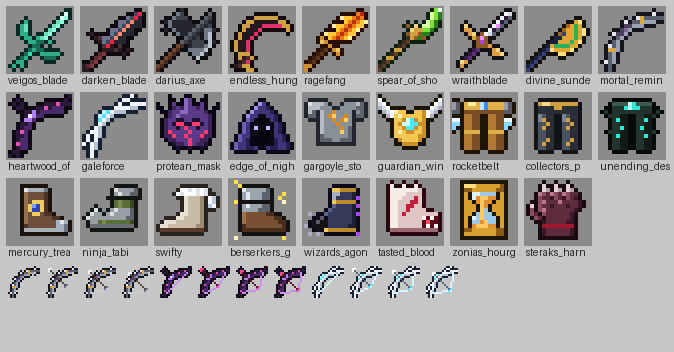
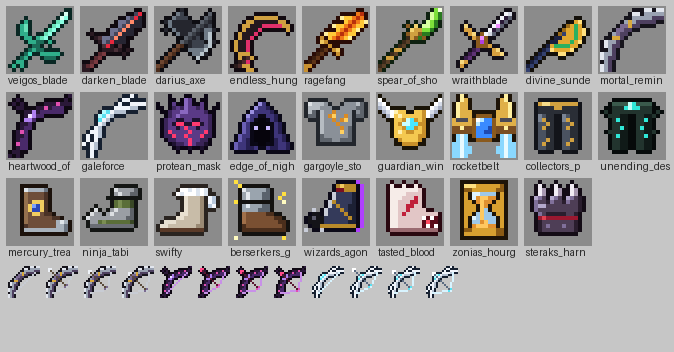
art: redraw the four weakest combat sprites
Rocketbelt is now the belt itself (twin rockets, crystal buckle, glowing
exhaust); Sterak's Gage a steel-lilac gauntlet with long claws; Mortal
Reminder gets solid saw teeth; Spellslinger's Shoes a gold cuff, red lining,
spiked orb and violet aura.

diff --git a/tools/generate-combat-art.py b/tools/generate-combat-art.py
@@ -332,25 +332,26 @@ sprite('guardian_wing', {
 # --- Leggings -------------------------------------------------------------------------------
 sprite('rocketbelt', {
     'K': '#1e1408', 'b': '#7a4e22', 'B': '#b07a34', 'y': '#e0b048', 'Y': '#fff0a0',
-    'c': '#3a8aff', 'C': '#b8e8ff', 't': '#5a5a66', 'T': '#9a9aa8', 'f': '#8ad8ff', 'F': '#e8faff',
+    'c': '#3a8aff', 'C': '#b8e8ff', 'W': '#ffffff', 'B': '#1e4ab0', 'o': '#8a5a1e', 't': '#4a4a56',
+    'f': '#8ad8ff', 'F': '#e8faff',
 }, [
-    "................",
-    "KK.KKKKKKKKKKKK.",
-    "TtKyYYyCcyyyyTtK",
-    "TtKyyyyCcyyyyTtK",
-    "ttKbbbbbbbbbbttK",
-    "KKKBBbbKKBBbbKK.",
-    "FFKBBbbKKBBbbFFK",
-    "ffKBBbbKKBBbbffK",
-    "fKKBBbbKKBBbbfK.",
-    "K.KyyyyKKyyyyK..",
-    "..KBBbbKKBBbbK..",
-    "..KBBbbKKBBbbK..",
-    "..KBBbbKKBBbbK..",
-    "..KBBbbKKBBbbK..",
-    "...KKKK..KKKK...",
-    "................",
-], glow='cCfF')
+    ".KYK........KYK.",
+    ".KYyK......KyYK.",
+    "KYyyK......KyyYK",
+    "KYyyK......KyyYK",
+    "KYyyyKKKKKKyyyYK",
+    "KYyyyKooooKyyyYK",
+    "ytttyoWCccoyttty",
+    "yyyyyoCcccoyyyyy",
+    "bbYbbocccBobbYbb",
+    "bbbbboccBBobbbbb",
+    "KfFfKoccccoKfFfK",
+    "KfFfKKooooKKfFfK",
+    "ffFf........fFff",
+    "ffFff......ffFff",
+    "ffFff......ffFff",
+    "ffFf........fFff",
+], glow='cCWBfF')
 
 sprite('collectors_pants', {
     'K': '#12141a', 's': '#2a2e36', 'm': '#4a5260', 'l': '#7a8494', 'y': '#d0a040', 'Y': '#f6dc8a',
@@ -485,22 +486,22 @@ sprite('berserkers_greaves', {
 
 sprite('wizards_agony', {
     'K': '#0c0a18', 'n': '#1c2034', 'N': '#343a5a', 'l': '#5a6488', 'y': '#b88a2a', 'Y': '#f0c860',
-    's': '#a8aec0', 'o': '#141418', 'O': '#5a5a6a', 'p': '#b040ff', 'P': '#e0a0ff',
+    's': '#c8ccd8', 'o': '#141418', 'O': '#5a5a6a', 'p': '#b040ff', 'P': '#e0a0ff', 'r': '#7a1020',
 }, [
+    "........KKKKKp..",
+    ".......KyYyyyKp.",
+    ".......KrryyyKp.",
+    "......KsNNNNnKp.",
+    "......KsNNNNnKp.",
+    ".....KsyNNNNnKp.",
+    ".....KsNyNNnnKp.",
+    "..s.KsNNNyNnnKp.",
+    ".KooKsNNNNynnKp.",
+    "KoOooNNNNNNynKp.",
+    "KooooNNNNNNnnKp.",
+    ".KooyyyyyyyyyKp.",
+    "s.KKsKKKKKKKKp..",
     "................",
-    ".......KKKKKK...",
-    "......KYYyyyyK..",
-    "......KssNNNnK..",
-    "......KsNNNNnp..",
-    "......KYyyyyyK..",
-    "......KlNNNNnp..",
-    ".....KlNNNNNnK..",
-    ".s.KKlNNNNNNnp..",
-    "..KoOKNNNNNNnK..",
-    ".KoOooNNNNNNnK..",
-    "sKooooNNNNNnnK..",
-    "..KoKYyyyyyyyK..",
-    ".s.s.KKKKKKKKp..",
     "................",
     "................",
 ], glow='pP')
@@ -551,24 +552,24 @@ sprite('zonias_hourglass', {
 ], glow='sS')
 
 sprite('steraks_harness', {
-    'K': '#1a0a12', 'd': '#3a1626', 'm': '#5e2a3e', 'l': '#8a4a62', 'L': '#b87890', 'c': '#e8d0d8',
-    'C': '#b8a0a8', 'r': '#a01830',
+    'K': '#140c16', 'd': '#2a1e2e', 'm': '#4e3e56', 'l': '#80709a', 'L': '#b4a8cc', 'c': '#f2ecf4',
+    'C': '#a898b0', 'r': '#9a1830', 'R': '#e04050',
 }, [
-    "....K..K..K.....",
-    "...KcKKcKKcK....",
-    "...KcCKcCKcCK...",
-    "..KLlmLlmLlmmK..",
-    "..KlmmdlmdlmdK..",
-    ".KKlLmmmLmmmmdK.",
-    "KcKlmmdmmmdmmdK.",
-    "KlKlLmmmmmmmdK..",
-    "KlmKlmmmmmmdK...",
-    ".KlmKmmmmmmdK...",
-    "..KKdmmmmmddK...",
-    "...KrrrrrrrrK...",
-    "...KdmmmmmmdK...",
-    "...KdmmmmmmdK...",
+    "...K...K...K....",
+    "..KcK.KcK.KcK...",
+    "..KcCKKcCKKcCK..",
+    "..KcCKKcCKKcCK..",
+    ".KLlmKLlmKLlmdK.",
+    ".KlmmdlmmdlmmdK.",
+    ".KlLLmmmmmmmmdK.",
+    ".KlmmmmmmmmmmdK.",
+    "..KlmdddddmmdK..",
+    "..KrRrrrrrrrrK..",
+    "..KdmmmmmmmmdK..",
+    "..KdmlmmmlmmdK..",
+    "..KdmmmmmmmmdK..",
     "...KKKKKKKKKK...",
+    "................",
     "................",
 ])
 
@@ -585,22 +586,22 @@ bow('mortal_reminder', {
     'K': '#16141c', 's': '#5a6070', 'm': '#9aa2b2', 'l': '#e2e6ee', 'y': '#d8a83c',
     'p': '#4e4060', 'P': '#7a6a90',
 }, [
-    ".............K..",
-    ".........KKKKlKK",
-    "......K.Klysssss",
-    ".....KlKssymmmKK",
-    ".....KppmmmKKK..",
-    "...KKpPmKKK.....",
-    "..KlppmK........",
-    "...KsmK.........",
-    "..KsmK..........",
-    ".KlsmK..........",
-    ".KyymK..........",
-    ".KsmK...........",
-    ".KsmK...........",
-    "KlsmK...........",
-    ".KsK............",
-    ".KsK............",
+    "........KKKllKll",
+    ".......KllKmmmmm",
+    "......KKmmmmmppp",
+    ".....KmympppppKK",
+    "....KPPyppKKKK..",
+    "...KPPppKK......",
+    "..KmPppK........",
+    ".KKyypK.........",
+    "KlmmpK..........",
+    "KlmppK..........",
+    "KKmpK...........",
+    "lmmpK...........",
+    "lmppK...........",
+    "KmpK............",
+    "lmpK............",
+    "lmpK............",
 ], string='#c8ccd4', arrow=('#5a4a3a', '#eef2f8', '#7a6a90'))
 
 bow('heartwood_of_pallas', {

diff --git a/docs/technical/combat-art.md b/docs/technical/combat-art.md
@@ -54,7 +54,7 @@ Riot's images. The reference screenshots live in `design/reference/league/`, whi
 | `edge_of_night` | Edge of Night | an indigo hood, a dark face, two faint glowing eyes |
 | `gargoyle_stoneplate` | Gargoyle Stoneplate | a pale stone cuirass with broad pauldrons, glowing gold cracks |
 | `guardian_wing` | Guardian Angel | a gold breastplate, white wings at the shoulders, a glowing cyan crystal |
-| `rocketbelt` | Hextech Rocketbelt | brass belt and blue crystal, thrusters at the hips with blue exhaust |
+| `rocketbelt` | Hextech Rocketbelt | the belt itself: two gold rocket cones, a blue crystal buckle, glowing blue exhaust jets |
 | `collectors_pants` | The Collector | dark gunmetal with gold filigree (League's icon is a gun) |
 | `unending_despair` | Unending Despair | green-black spiked carapace with glowing cyan veins and core |
 | `mercury_treads` | Mercury's Treads | brown leather, steel cuff, toe cap and sole, a gold-set sapphire |
@@ -64,7 +64,7 @@ Riot's images. The reference screenshots live in `design/reference/league/`, whi
 | `wizards_agony` | Spellslinger's Shoes | a navy boot with gold bands and a silver plate, a spiked orb at the toe, a violet aura |
 | `tasted_blood` | Gluttonous Greaves | a bone-white boot with a jagged crest, a crimson streak, a fanged maw at the toe |
 | `zonias_hourglass` | Zhonya's Hourglass | a gold frame round an hourglass, glowing amber sand mid-fall |
-| `steraks_harness` | Sterak's Gage | a clawed crimson-purple gauntlet |
+| `steraks_harness` | Sterak's Gage | a steel gauntlet with lilac sheen, long pale claws, a crimson band at the wrist |
 
 `test_magic_blade` is a `/give`-only test item and keeps the vanilla look.
 
@@ -92,8 +92,11 @@ Riot's images. The reference screenshots live in `design/reference/league/`, whi
 
 ## Known rough edges
 
-- **First pass.** Readable at hotbar size and recognisably each item, but several deserve another
-  round: Sterak's Gage, the Rocketbelt's thrusters, Mortal Reminder's spikes, Spellslinger's orb.
+- **Second pass on the weakest four** (2026-10-07): the Rocketbelt is now the belt itself (twin
+  rockets, crystal buckle, glowing exhaust) rather than leggings with thrusters; Sterak's Gage is
+  a steel-lilac gauntlet with long claws; Mortal Reminder's limbs carry solid saw teeth;
+  Spellslinger's Shoes has a gold-trimmed cuff, a red lining, the spiked orb at the toe and an
+  aura down its back.
 - **Worn textures are simple.** Flat colour, trim bands and the signature detail (Jak'Sho's eyes,
   Guardian Angel's crystal and back wings, Mercury's sapphire, the Gluttonous maw at the toe).
   Armour layers can't glow: the layer renderer has no emissive pass.
